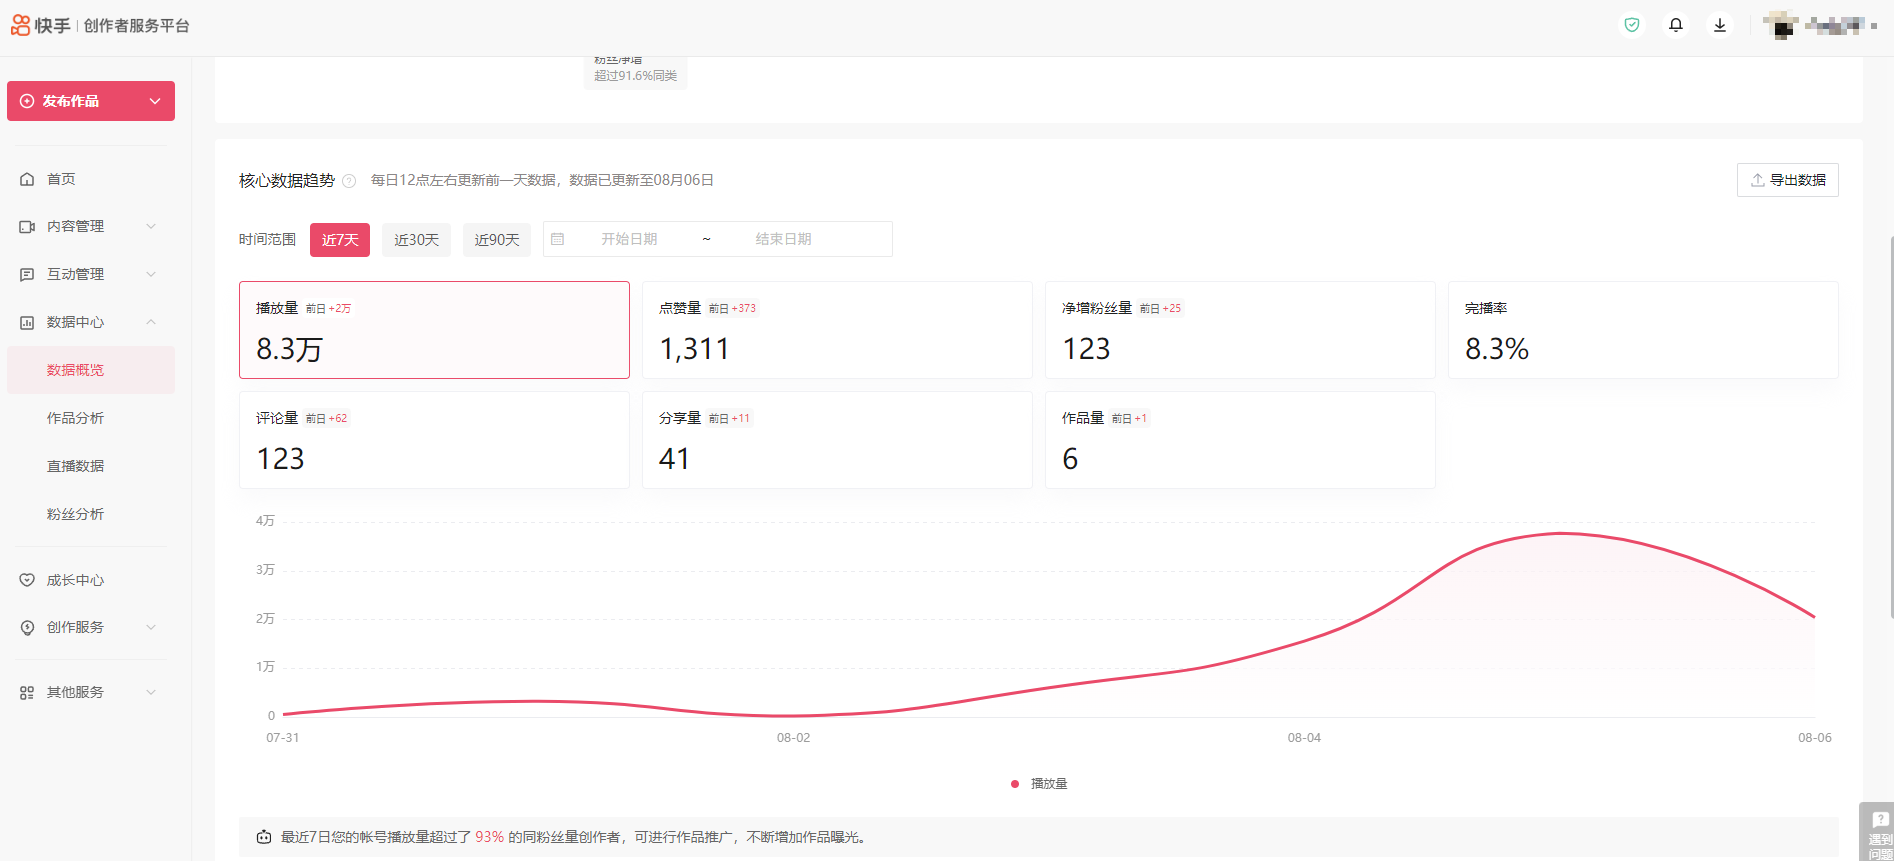
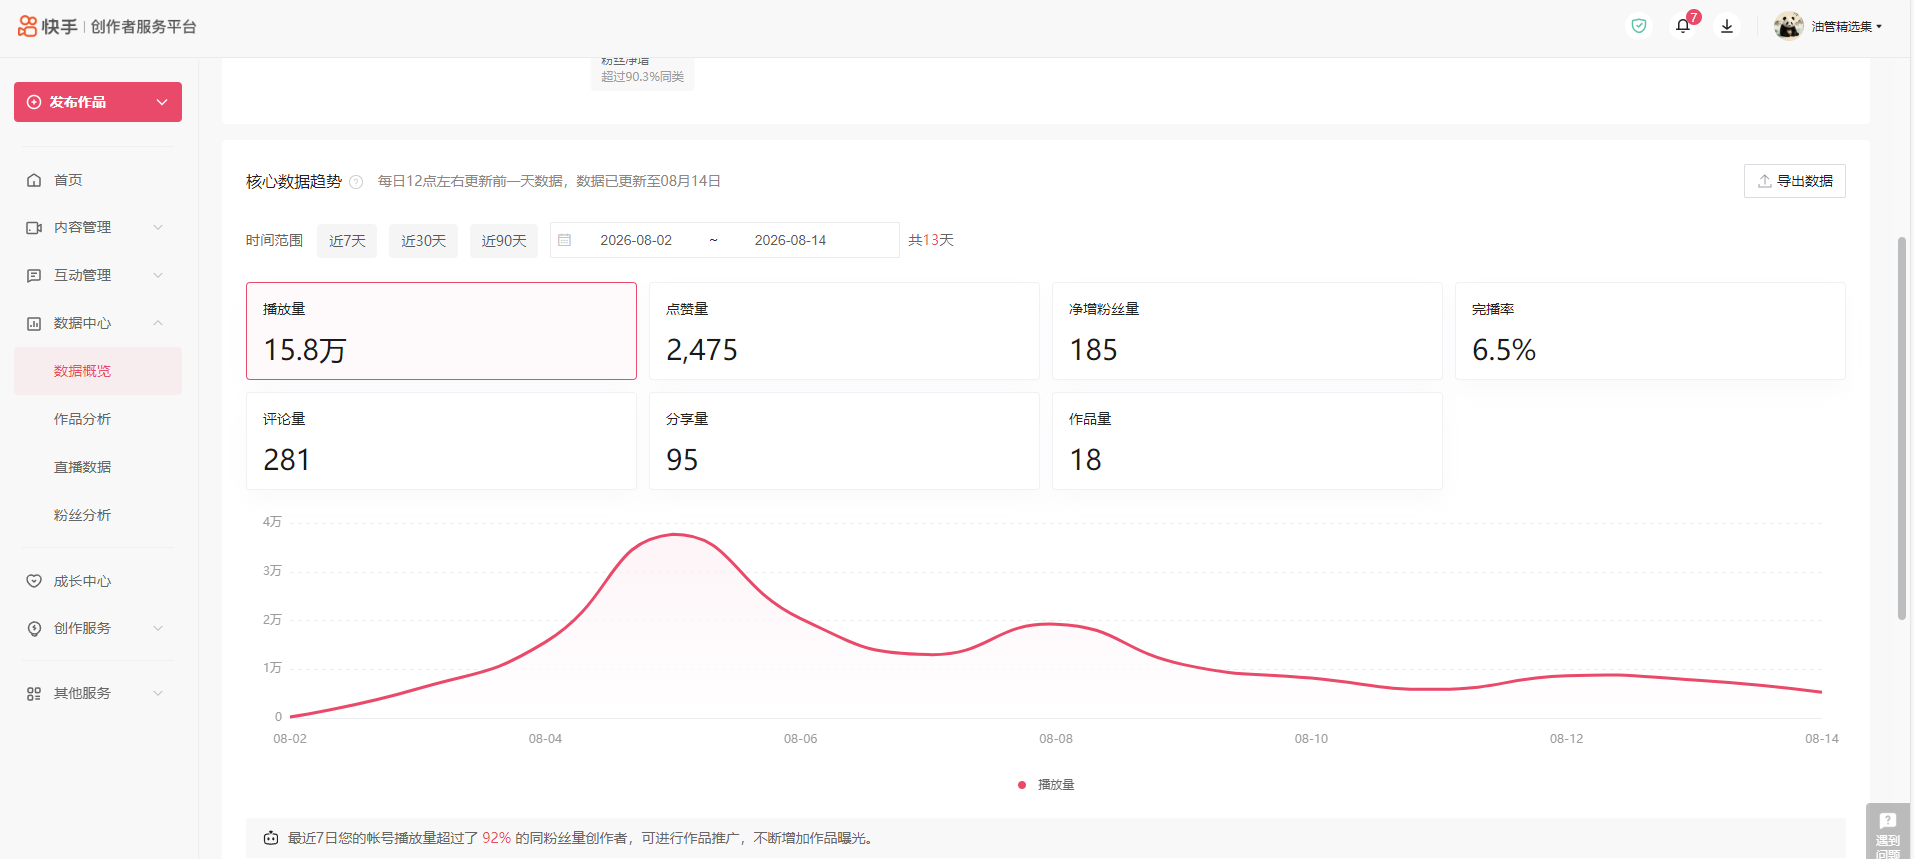
fix: 收敛平台上传日志与账号隔离

diff --git a/app/core/kuaishou_analytics_service.py b/app/core/kuaishou_analytics_service.py
@@ -98,9 +98,9 @@ def _ksa_record(record_id, owner_user_id, selected_account_id=None):
         row = conn.execute(
             """
             SELECT p.* FROM published_youtube_materials p
-            WHERE p.id = ? AND p.platform_type = ? AND p.deleted_at IS NULL
+            WHERE p.id = ? AND p.owner_user_id = ? AND p.platform_type = ? AND p.deleted_at IS NULL
             """,
-            (record_id, _KSA_PLATFORM_TYPE),
+            (record_id, owner_user_id, _KSA_PLATFORM_TYPE),
         ).fetchone()
         if not row:
             raise ValueError("快手发布记录不存在")
@@ -133,11 +133,11 @@ def _ksa_record(record_id, owner_user_id, selected_account_id=None):
             selected = next((item for item in candidates if int(item["id"]) == selected_account_id), None)
             if not selected:
                 raise PermissionError("选择的快手账号不属于该发布记录候选")
-            conn.execute("UPDATE published_youtube_materials SET account_id = ?, updated_at = CURRENT_TIMESTAMP WHERE id = ?", (selected["id"], record_id))
+            conn.execute("UPDATE published_youtube_materials SET account_id = ?, updated_at = CURRENT_TIMESTAMP WHERE id = ? AND owner_user_id = ?", (selected["id"], record_id, owner_user_id))
             record["account_id"] = selected["id"]
             return record, selected, None
         if len(candidates) == 1 and len(global_candidates) == 1:
-            conn.execute("UPDATE published_youtube_materials SET account_id = ?, updated_at = CURRENT_TIMESTAMP WHERE id = ?", (candidates[0]["id"], record_id))
+            conn.execute("UPDATE published_youtube_materials SET account_id = ?, updated_at = CURRENT_TIMESTAMP WHERE id = ? AND owner_user_id = ?", (candidates[0]["id"], record_id, owner_user_id))
             record["account_id"] = candidates[0]["id"]
             return record, candidates[0], None
     choices = [{"accountId": item["id"], "accountName": item.get("userName") or "未命名账号"} for item in candidates]
@@ -339,13 +339,14 @@ def _ksa_local_context(owner_user_id, account, work):
             SELECT p.id, p.video_id, p.publish_title, p.title, p.published_at, p.platform_work_id,
                    y.analysis_result, y.publish_draft
             FROM published_youtube_materials p
-            LEFT JOIN youtube_videos y ON y.video_id = p.video_id
+            LEFT JOIN youtube_videos y ON y.video_id = p.video_id AND y.owner_user_id = p.owner_user_id
             WHERE p.platform_type = ? AND p.deleted_at IS NULL
+              AND p.owner_user_id = ?
               AND p.account_id = ?
               AND (p.platform_work_id = ? OR p.platform_work_id IS NULL)
             ORDER BY p.id DESC
             """,
-            (_KSA_PLATFORM_TYPE, account["id"], work["platformWorkId"]),
+            (_KSA_PLATFORM_TYPE, owner_user_id, account["id"], work["platformWorkId"]),
         ).fetchall()
     matches = []
     for row in rows:
@@ -363,8 +364,8 @@ def _ksa_local_context(owner_user_id, account, work):
     if not match.get("platform_work_id"):
         with _db_connect() as conn:
             conn.execute(
-                "UPDATE published_youtube_materials SET account_id = ?, platform_work_id = ?, platform_work_url = ?, updated_at = CURRENT_TIMESTAMP WHERE id = ?",
-                (account["id"], work["platformWorkId"], work.get("platformWorkUrl") or "", match["id"]),
+                "UPDATE published_youtube_materials SET account_id = ?, platform_work_id = ?, platform_work_url = ?, updated_at = CURRENT_TIMESTAMP WHERE id = ? AND owner_user_id = ?",
+                (account["id"], work["platformWorkId"], work.get("platformWorkUrl") or "", match["id"], owner_user_id),
             )
     analysis = _ksa_json_object(match.get("analysis_result"))
     draft = _ksa_json_object(match.get("publish_draft"))

diff --git a/myUtils/postVideo.py b/myUtils/postVideo.py
@@ -23,11 +23,7 @@ def post_video_tencent(title,files,tags,account_file,category=TencentZoneTypes.L
         publish_datetimes = [0 for i in range(len(files))]
     for index, file in enumerate(files):
         for cookie in account_file:
-            print(f"文件路径{str(file)}")
-            # 打印视频文件名、标题和 hashtag
-            print(f"视频文件名：{file}")
-            print(f"标题：{title}")
-            print(f"Hashtag：{tags}")
+            print(f"publish started : platform = tencent | file_index = {index}")
             app = TencentVideo(title, str(file), tags, publish_datetimes[index], cookie, category, is_draft)
             asyncio.run(app.main(), debug=False)
 
@@ -44,11 +40,7 @@ def post_video_DouYin(title,files,tags,account_file,category=TencentZoneTypes.LI
         publish_datetimes = [0 for i in range(len(files))]
     for index, file in enumerate(files):
         for cookie in account_file:
-            print(f"文件路径{str(file)}")
-            # 打印视频文件名、标题和 hashtag
-            print(f"视频文件名：{file}")
-            print(f"标题：{title}")
-            print(f"Hashtag：{tags}")
+            print(f"publish started : platform = douyin | file_index = {index}")
             app = DouYinVideo(title, str(file), tags, publish_datetimes[index], cookie, thumbnail_path, productLink, productTitle)
             asyncio.run(app.douyin_upload_video(), debug=False)
 
@@ -63,11 +55,7 @@ def post_video_ks(title,files,tags,account_file,category=TencentZoneTypes.LIFEST
         publish_datetimes = [0 for i in range(len(files))]
     for index, file in enumerate(files):
         for cookie in account_file:
-            print(f"文件路径{str(file)}")
-            # 打印视频文件名、标题和 hashtag
-            print(f"视频文件名：{file}")
-            print(f"标题：{title}")
-            print(f"Hashtag：{tags}")
+            print(f"publish started : platform = kuaishou | file_index = {index}")
             app = KSVideo(title, str(file), tags, publish_datetimes[index], cookie)
             asyncio.run(app.main(), debug=False)
 
@@ -82,10 +70,7 @@ def post_video_xhs(title,files,tags,account_file,category=TencentZoneTypes.LIFES
         publish_datetimes = 0
     for index, file in enumerate(files):
         for cookie in account_file:
-            # 打印视频文件名、标题和 hashtag
-            print(f"视频文件名：{file}")
-            print(f"标题：{title}")
-            print(f"Hashtag：{tags}")
+            print(f"publish started : platform = xiaohongshu | file_index = {index}")
             app = XiaoHongShuVideo(title, file, tags, publish_datetimes, cookie)
             asyncio.run(app.main(), debug=False)
 

diff --git a/app/cli/dispatcher.py b/app/cli/dispatcher.py
@@ -40,7 +40,7 @@ async def dispatch(args: argparse.Namespace, provider: ModuleType | None = None)
             result = await actions.login_douyin_account(args.account, headless=args.headless, cdp_url=args.cdp_url)
             if not result["success"]:
                 raise RuntimeError(result["message"])
-            print(f"Douyin login flow completed: {result['account_file']}")
+            print("Douyin login flow completed")
             return 0
 
         if args.action == "check":
@@ -92,7 +92,7 @@ async def dispatch(args: argparse.Namespace, provider: ModuleType | None = None)
             result = await actions.login_kuaishou_account(args.account, headless=args.headless)
             if not result["success"]:
                 raise RuntimeError(result["message"])
-            print(f"Kuaishou login flow completed: {result['account_file']}")
+            print("Kuaishou login flow completed")
             return 0
 
         if args.action == "check":
@@ -142,7 +142,7 @@ async def dispatch(args: argparse.Namespace, provider: ModuleType | None = None)
             result = await actions.login_xiaohongshu_account(args.account, headless=args.headless)
             if not result["success"]:
                 raise RuntimeError(result["message"])
-            print(f"Xiaohongshu login flow completed: {result['account_file']}")
+            print("Xiaohongshu login flow completed")
             return 0
 
         if args.action == "check":
@@ -194,7 +194,7 @@ async def dispatch(args: argparse.Namespace, provider: ModuleType | None = None)
             result = await actions.login_tencent_account(args.account, headless=args.headless)
             if not result["success"]:
                 raise RuntimeError(result["message"])
-            print(f"Tencent Channels login flow completed: {result['account_file']}")
+            print("Tencent Channels login flow completed")
             return 0
 
         if args.action == "check":
@@ -229,7 +229,7 @@ async def dispatch(args: argparse.Namespace, provider: ModuleType | None = None)
             result = await actions.login_bilibili_account(args.account)
             if not result["success"]:
                 raise RuntimeError(result["message"])
-            print(f"Bilibili login flow completed: {result['account_file']}")
+            print("Bilibili login flow completed")
             return 0
 
         if args.action == "check":

diff --git a/myUtils/login.py b/myUtils/login.py
@@ -107,9 +107,9 @@ def save_login_account(platform_type, cookie_file, user_name, status_queue, acco
             try:
                 if old_path.exists():
                     old_path.unlink()
-                    print(f"✅ 旧 Cookie 文件已删除: {old_path}")
+                    print("旧 Cookie 文件已删除")
             except Exception as e:
-                print(f"⚠ 删除旧 Cookie 文件失败: {e}")
+                print(f"删除旧 Cookie 文件失败 : error_type = {type(e).__name__}")
 
         return True
 

diff --git a/uploader/xhs_uploader/xhs_login_qrcode.py b/uploader/xhs_uploader/xhs_login_qrcode.py
@@ -27,8 +27,7 @@ if __name__ == '__main__':
         print(check_qrcode)
         sleep(1)
         if check_qrcode["code_status"] == 2:
-            print(json.dumps(check_qrcode["login_info"], indent=4))
-            print("当前 cookie：" + xhs_client.cookie)
+            print("登录成功，Cookie 已写入客户端会话")
             break
 
     print(json.dumps(xhs_client.get_self_info(), indent=4))

diff --git a/uploader/douyin_uploader/main.py b/uploader/douyin_uploader/main.py
@@ -331,6 +331,8 @@ class DouYinBaseUploader(BaseVideoUploader):
         await description_editor.click()
         await page.keyboard.press("Control+KeyA")
         await page.keyboard.press("Delete")
+        if description:
+            await page.keyboard.type(description)
 
         for tag in tags or []:
             await page.keyboard.type(" #" + tag)
